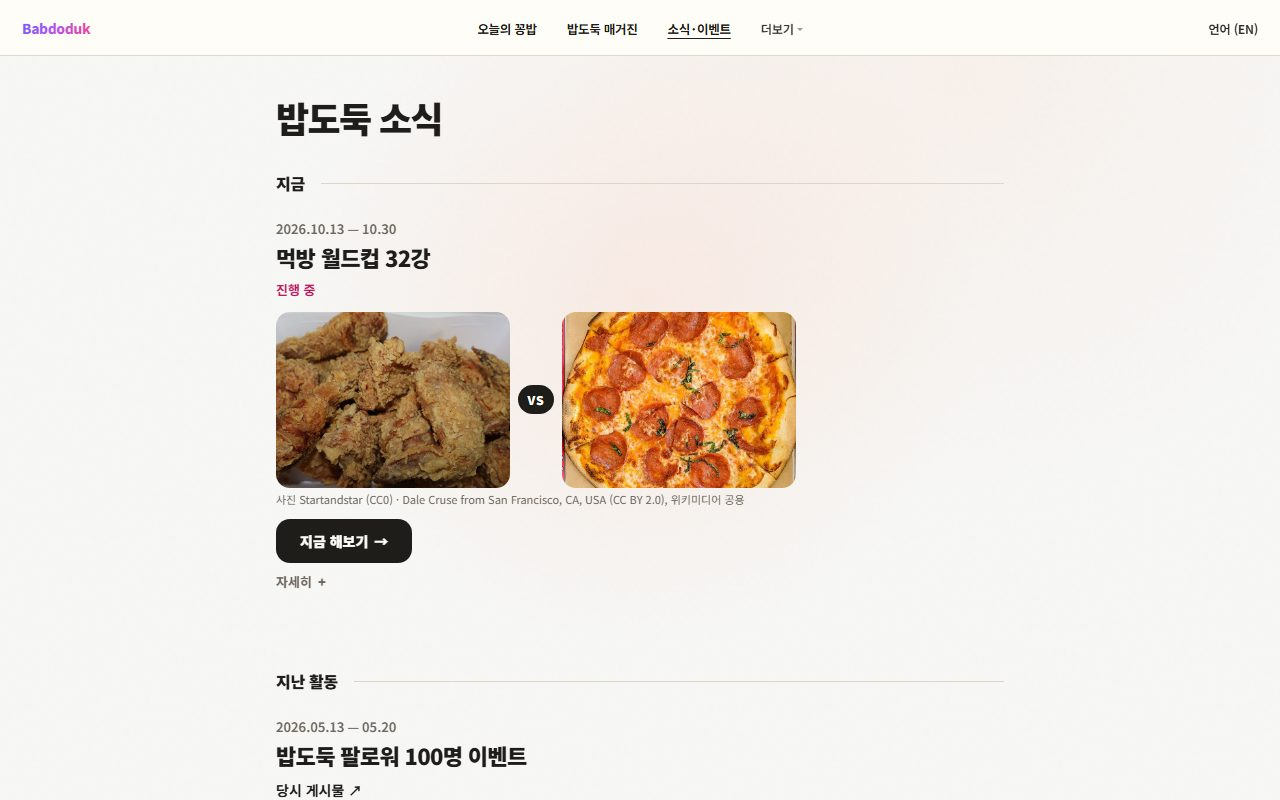
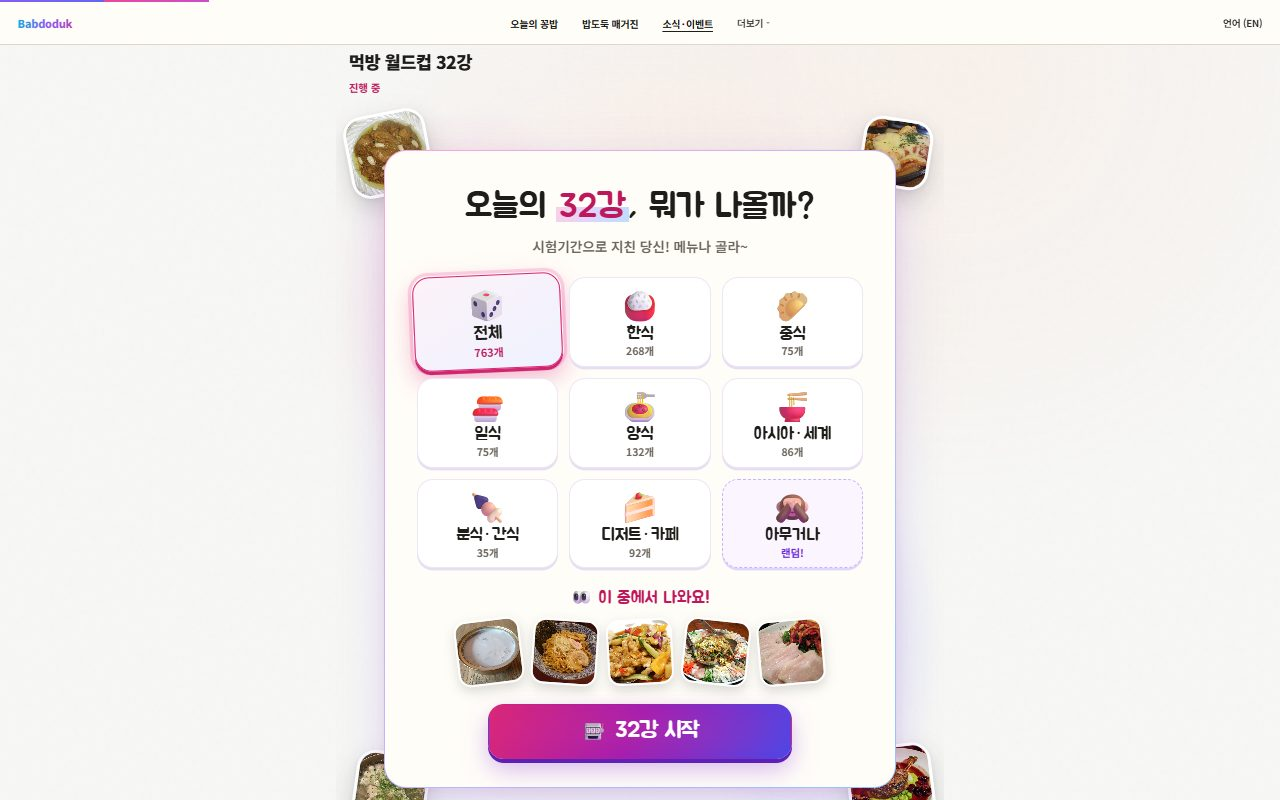
docs(readme): the world cup start screen and its embed in the news page
Agent: Claude

diff --git a/README.md b/README.md
@@ -12,10 +12,10 @@
 | 오늘의 꽁밥 달력과 학식 한 줄로 시작해요. | 지금 참여할 수 있는 무료 음식 일정과 이번 주 학식. 🎁 경품 행사는 따로 모아 봐요. |
 | **밥도둑 매거진** | **소식·이벤트** |
 | ![밥도둑 매거진 화면](docs/readme/magazine.jpg) | ![소식·이벤트 화면](docs/readme/event.jpg) |
-| 음식 이야기와 '오늘 뭐 먹지?' 메뉴 고르기. | 밥도둑이 연 활동과 지난 기록. |
+| 음식 이야기와 '오늘 뭐 먹지?' 메뉴 고르기. | 지금 열린 먹방 월드컵을 시작 화면 그대로 보여 주고, 지난 활동은 기록으로 남아요. |
 | **먹방 월드컵** | **역사** |
 | ![먹방 월드컵 화면](docs/readme/worldcup.jpg) | ![역사 화면](docs/readme/history.jpg) |
-| 700개가 넘는 메뉴 중 32개가 맞붙는 놀이. 8강부터는 검은 화면 "진출!", 결승은 두 카드가 부딪혀요. | 밥도둑이 걸어온 길. |
+| "오늘의 32강, 뭐가 나올까?" 카테고리를 고르고 시작하면 700개가 넘는 메뉴 중 32개가 맞붙어요. 8강부터는 검은 화면 "진출!", 결승은 두 카드가 부딪혀요. | 밥도둑이 걸어온 길. |
 
 ### 최근 lab에 들어온 것
 
@@ -23,7 +23,8 @@
 - **🎁 경품** 행사는 배지와 필터로 따로 보여 주고, 무료 음식 개수에는 세지 않아요.
 - 포스터에서만 읽은 음식 정보에는 "포스터 기준"이라고 표시해요.
 - **먹방 월드컵**은 8강·4강에서 "진출!" 화면이 나오고, 결승에서는 두 카드가 부딪히는 장면이 나와요.
-- **먹방 월드컵 시작 화면**: 이모지 카테고리 타일과 🙈 아무거나, 다음 판에 나올 메뉴 사진 미리보기, 그리고 시작하면 약 5초 캡슐 뽑기 장면(탭하면 건너뜀)이 나와요.
+- **먹방 월드컵 시작 화면**: 이모지 카테고리 타일과 🙈 아무거나, 다음 판에 나올 메뉴 사진 미리보기, 그리고 시작하면 약 5초 캡슐 뽑기 장면(탭하면 건너뜀)이 나와요. 사진 출처는 "📷 사진 위키미디어 공용(잘라서 줄임)" 한 줄로 줄였어요.
+- **소식 페이지**의 먹방 월드컵 카드에 같은 시작 화면이 그대로 들어왔어요(티저 사진과 "지금 해보기" 버튼은 없앴어요). 카테고리를 고르고 "32강 시작"을 누르면 월드컵 페이지가 그 카테고리로 바로 시작해요(`worldcup.html?cat=korean&go=1`, `go=1`일 때만). 행사가 끝나면 카드는 "페이지 보기" 링크만 남아요.
 
 <img src="docs/readme/home-phone.jpg" alt="휴대폰에서 본 홈" width="240" align="right" />
 
